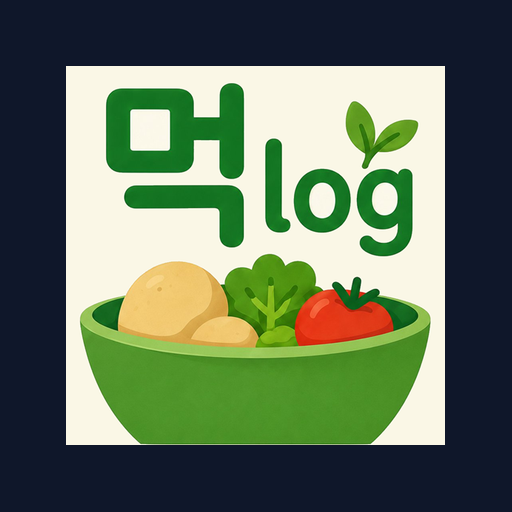
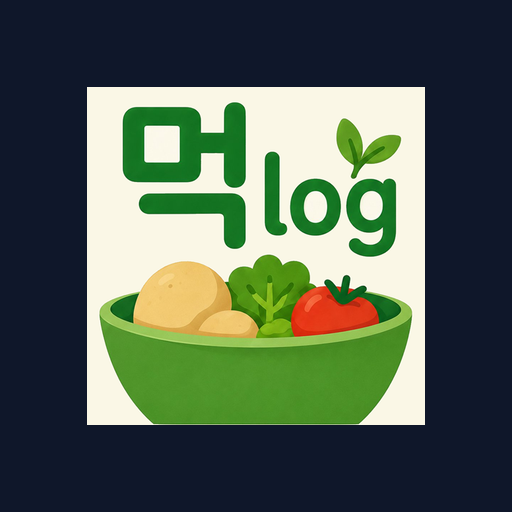
chore: 아이콘 안전 여백 66%, 스플래시 동기화, 배포 0.1.7

Changed region(s): [[0.125, 0.125, 0.875, 0.875], [0.375, 0.5, 0.4062, 0.5312]]

diff --git a/src/pages/SettingsPage.tsx b/src/pages/SettingsPage.tsx
@@ -361,7 +361,7 @@ export default function SettingsPage() {
             개인정보 처리방침 · 서비스 안내
           </Link>
         </p>
-        <p className="text-[11px] text-slate-600">먹로그 v0.1.6</p>
+        <p className="text-[11px] text-slate-600">먹로그 v0.1.7</p>
       </section>
     </div>
   );